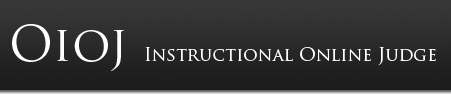
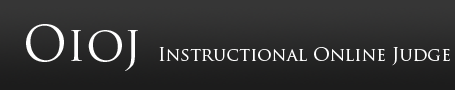
basic ui refinements

Changed region(s): [[0.0, 0.2444, 0.9933, 0.7778], [0.0, 0.9333, 1.0, 1.0]]

diff --git a/WebServer/templates/base.css b/WebServer/templates/base.css
@@ -3,22 +3,35 @@
 body
 {
 	font-family: Tahoma, Verdana, Lucida Grande, sans-serif;
-	font-size: 12px;
-	background-color: #787878;
+	font-size: 14px;
+	background-color: #8a8a8a;
+	background-image: url('images/background.jpg');
+	background-position: center top;
+	background-repeat: no-repeat;
 }
 
 #container
 {
 	background-color: white;
 	width: 960px;
-	margin: 0 auto 0 auto;
+	margin: 10px auto 0 auto;
+	border: 1px solid #4c4c4c;
+	border-radius: 5px;
+	
+	background-image: url('./images/infobar.gif');
+	background-repeat: repeat-x;
+	
+	box-shadow: 0 0 20px rgba(25,25,25,0.9);
+	
+	margin-bottom: 5px;
+	
 }
 
 #header
 {
 	width: 100%;
-	height: 95px;
-	background-image: url('./images/header_tile.gif');
+	height: 97px;
+	background-image: url('./images/header_tile.png');
 	overflow: hidden;
 }
 
@@ -40,6 +53,13 @@ body
 #header #navbar ul
 {
 	height: 100%;
+}
+
+#body
+{
+	width: 946px;
+	margin: 0 auto 0 auto;
+	padding: 7px;
 }
 
 #navbar li
@@ -67,8 +87,10 @@ body
 
 #infobar
 {
-	margin-top: 3px;
-	height: 15px;
+	margin-top: 0px;
+	height: 24px;
+	line-height: 24px;
+	padding: 0 10px 0 10px;
 }
 
 #infobar #breadcrumb
@@ -81,16 +103,16 @@ body
 	float: right;
 }
 
+
+
 #footer
 {
 	clear: both;
-	width: 100%;
 	font-family: Verdana, Tahoma;
 	text-align: center;
 	font-size: 10px;
 	margin-top: 5px;
 	padding: 5px 0 5px 0;
-	background-color: #eeeeee;
 }
 
 .hidden

diff --git a/WebServer/templates/index.css b/WebServer/templates/index.css
@@ -4,11 +4,23 @@
 	font-size: 22px;
 	font-family: 'Segoe UI Light','Segoe UI','Lucida Grande',Verdana,Arial,Helvetica,sans-serif;
 }
+
+#body
+{
+	padding: 0;
+	width: 960px;
+}
+
 #blocknav
 {
 	height: 360px;
 	position: relative;
 	overflow: hidden;
+}
+
+#blocknav img
+{
+	display: block;
 }
 
 #bn_banners

diff --git a/WebServer/classes/Dependency.php b/WebServer/classes/Dependency.php
@@ -3,7 +3,7 @@ import('ActiveRecord');
 class Dependency extends ActiveRecord
 {
 	const COMPLILE_TYPE = 1;
-	const RUNTIME_TYPE = 1<<1;
+	const RUNTIME_TYPE = 2; // 10 (bin)
 	
 }
 ?>

diff --git a/WebServer/classes/Settings.php b/WebServer/classes/Settings.php
@@ -7,7 +7,7 @@ class Settings
 	{
 		if (!self::$stored)
 		{
-			$p = Cache::MemGet('settings')
+			$p = Cache::MemGet('settings');
 			if (!$p)
 			{
 				$p = array();
